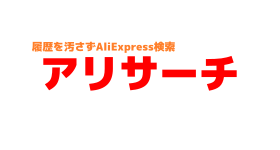
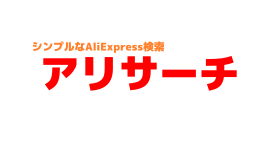
change subtitle

Changed region(s): [[0.1143, 0.2667, 0.6286, 0.3467]]

diff --git a/html/index.html b/html/index.html
@@ -6,9 +6,9 @@
 <meta name="viewport" content="width=device-width, initial-scale=1">
 <title>アリサーチ</title>
 <!-- ogp -->
-<meta name="description" content="AliExpressの商品をトラッキングを避けて検索できるWebサービスです。">
+<meta name="description" content="AliExpressのシンプルな商品検索サービスです。">
 <meta property="og:title"       content="アリサーチ">
-<meta property="og:description" content="AliExpressの商品をトラッキングを避けて検索できるWebサービスです。">
+<meta property="og:description" content="AliExpressのシンプルな商品検索サービスです。">
 <meta property="og:url"         content="http://web.inajob.tk/ali-search/">
 <meta property="og:image"       content="http://web.inajob.tk/ali-search/imgs/cover.png">
 <meta name="twitter:card"       content="summary_large_image">
@@ -34,7 +34,7 @@
 <body>
   <script src="../mh/mh.js"></script>
   <h1><a href=""><img src="imgs/cover.png"></a></h1>
-  <div>aliexpressの商品を履歴を汚さずに検索できます。</div>
+  <div>aliexpressのシンプルな商品検索サービスです</div>
   <div id="container">
     <div class="control">
       <form v-on:submit.prevent="search">
